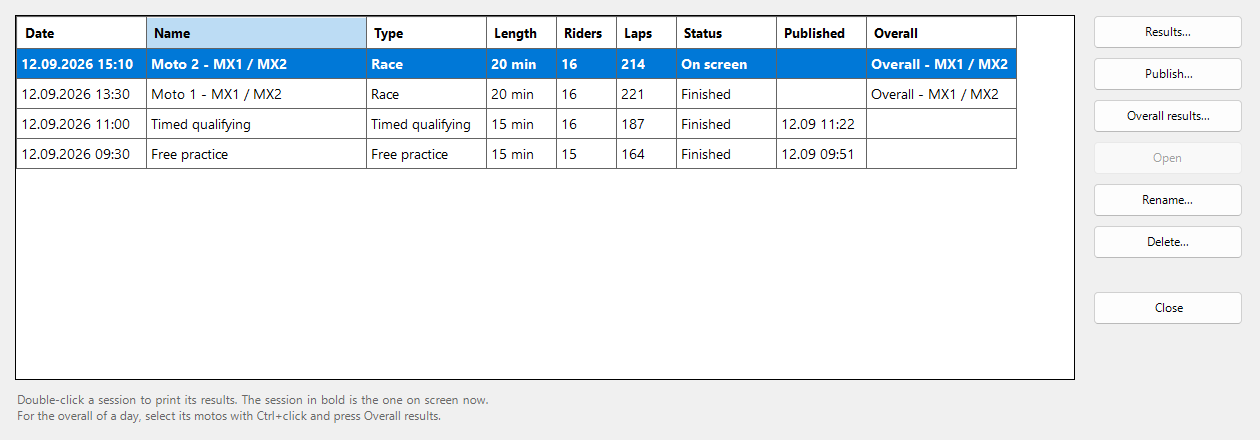
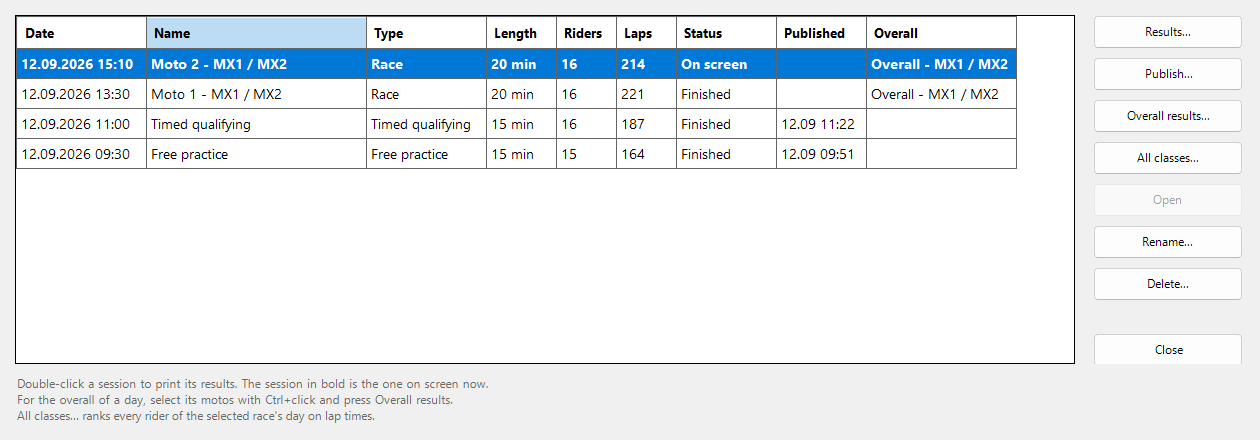
Help for the Master of all classes, with its picture
A new topic, Master of all classes, says what it compares and why lap
times, how both measures are worked out, what is highlighted, and where
it is printed, published and kept by itself. Planning the day, the
spectator screen and Past sessions mention it; the past-sessions picture
shows the new All classes... button, and master-all-classes is made from
the race demo's fictional riders in MX1 and MX2 races of their own.

The window's columns now fit without scrolling, and a gap reads as
seconds - +1.800 - the way a lap time difference is said.

diff --git a/HelpTopics.cs b/HelpTopics.cs
@@ -28,7 +28,7 @@ public static class HelpTopics
     QuickStart(), DayPlan(), Presets(), Demo(), Screens(),
     Race(), Qualifying(), Practice(), Waves(), Teams(),
     RaceDay(), Fixing(), Unknown(), TransponderCheck(), Track(),
-    Results(), Overall(), Publish(), PastSessions(),
+    Results(), Overall(), AllClasses(), Publish(), PastSessions(),
     RiderLists(), Reader(), Settings(), Shortcuts(), Troubleshooting()
   };
 
@@ -172,6 +172,9 @@ public static class HelpTopics
         "numbered in the order they ran - the results sheet and one per class, as Excel and as PDF. Saved again " +
         "after a correction; a file open in Excel is left alone and the new one saved beside it.",
         "Live timing: switched on when a session's clock starts. It switches itself off at the finish, as always."),
+      Para("A fourth switch, off in a new plan: Keep the Master of all classes. It ranks every rider of every " +
+           "race of the day on lap times, saves the list with the day's sheets and publishes it after the races, " +
+           "again after each one. See Master of all classes."),
       Para("The same switches exist for sessions set up by hand: Race > After each session.... They are off " +
            "until you turn them on."),
       Para("With publishing on, the day's programme goes to the websites as well, and again whenever a session " +
@@ -670,9 +673,12 @@ public static class HelpTopics
         "chequered flag marks riders who have finished.",
         "Before the start it lists who is entered.",
         "With a day plan, before the start and after the finish the bottom line says what is next on track and when.",
-        "It shows full names - it is a screen at the track, not the website."),
+        "It shows full names - it is a screen at the track, not the website.",
+        "With Master of all classes between sessions ticked (right-click), before a start and after a finish it " +
+        "takes turns, every 20 seconds, with the day's list of every class on lap times."),
       Keys(
-        ("Right-click", "The menu: Top 10, Top 20, All riders, full screen, next screen, close"),
+        ("Right-click", "The menu: Top 10, Top 20, All riders, Master of all classes between sessions, full " +
+                        "screen, next screen, close"),
         ("1 / 2 / A", "Top 10 / Top 20 / all riders - with all, the rows shrink to fit, in two columns on a wide screen"),
         ("F11 or double-click", "Full screen on and off; Esc leaves full screen"),
         ("Ctrl+Right", "Move it to the next screen")),
@@ -986,6 +992,52 @@ public static class HelpTopics
     },
     HelpTopicIds.Results, HelpTopicIds.PastSessions, HelpTopicIds.Publish, HelpTopicIds.Race);
 
+  private static HelpTopic AllClasses() => Topic(HelpTopicIds.AllClasses, AfterASession,
+    "Master of all classes",
+    "Every rider of every race of the day in one list, all classes together, ranked on lap times - so a fast " +
+    "rider of a lower class can see they were quicker than half the class above.",
+    new[]
+    {
+      Picture("master-all-classes", "The Master of all classes: every rider of the day's races, ranked on best lap."),
+      Para("Each class rides its own races, and they are not the same length, so laps and total time say nothing " +
+           "between classes. A lap is the same circuit for everyone, so the list compares lap times. It changes " +
+           "nobody's class result."),
+
+      Heading("Opening it"),
+      Keys(
+        ("Race > Master of all classes...", "today's list, or the last day races were run"),
+        ("Race > Past sessions...", "select any race of the day and press All classes...")),
+
+      Heading("How it is ranked"),
+      Bullets(
+        "Every finished race of the day counts, all classes. Practice and qualifying do not, and neither do " +
+        "team races - a team's laps are ridden by several people.",
+        "Rank by: Best lap is the fastest lap a rider rode in any race of the day. Average lap is the mean of " +
+        "all their laps. The window shows both columns and is sorted by the one chosen; that order is what is " +
+        "printed and published.",
+        "Lap 1 of each race is left out of both: it runs from the start, not once round the circuit. These are " +
+        "the same Best lap and Avg lap the race sheets print.",
+        "An average needs at least 3 laps. A rider with fewer still has a best lap and is listed below the " +
+        "others when sorted by average.",
+        "On equal best laps, whoever set it first is ahead. On equal averages, the better best lap.",
+        "Best lap in says which race and which lap the best lap was."),
+      Para("A rider is followed from race to race by their transponder, also when they rode in two classes. A " +
+           "row is highlighted when something should be checked: a best lap far quicker than any other lap the " +
+           "rider rode (a cut, or someone else's read), one number on two riders of a class, or one transponder " +
+           "ridden by two riders of different classes."),
+
+      Heading("Printing, publishing, keeping it by itself"),
+      Bullets(
+        "Results... previews, prints or exports it. The Excel file has a worksheet in each order.",
+        "Publish... puts it on the results website, where riders can switch between best and average lap and " +
+        "narrow it to their class while keeping their place among everyone. Races not published yet are offered first.",
+        "With Keep the Master of all classes in Race > After each session... (or a day plan), it is saved with " +
+        "the day's sheets and published by itself after the races, again after each one, at the same address.",
+        "The spectator screen can show it between sessions: right-click it and tick Master of all classes " +
+        "between sessions.")
+    },
+    HelpTopicIds.Overall, HelpTopicIds.Results, HelpTopicIds.PastSessions, HelpTopicIds.Publish);
+
   private static HelpTopic Publish() => Topic(HelpTopicIds.Publish, AfterASession,
     "Putting results on the website",
     "One button sends a finished session to your club's results website, where riders can look themselves " +
@@ -1108,6 +1160,8 @@ public static class HelpTopics
         "Publish... - puts it on the club's results website. Only shown once a website has been set up.",
         "Overall results... - adds up two or more motos into the result of the day. Select the motos with " +
         "Ctrl+click first; for motos that already count together, one of them is enough. See Overall results.",
+        "All classes... - every rider of every race of the selected race's day in one list, ranked on lap " +
+        "times. See Master of all classes.",
         "Open - makes it the session on screen, to look at its laps or correct them. Not while another session is running. " +
         "With a day plan, the plan waits while it is on screen; Set up now goes back to the plan.",
         "Rename... - changes the name printed on its sheet.",

diff --git a/CrossMgrInterface.Tests/HelpScreenshots/HelpScreenshotScenes.cs b/CrossMgrInterface.Tests/HelpScreenshots/HelpScreenshotScenes.cs
@@ -17,7 +17,8 @@ internal static class HelpScreenshotScenes
   {
     "race-day", "new-race-wizard", "fix-laps", "unknown-transponder",
     "track-map", "circuit-editor", "past-sessions", "reader-settings", "demo-picker",
-    "publish-results", "rider-list", "spectator-screen", "overall-results", "day-plan", "new-plan"
+    "publish-results", "rider-list", "spectator-screen", "overall-results", "day-plan", "new-plan",
+    "master-all-classes"
   };
 
   public static HelpScene Build(string name) => name switch
@@ -37,6 +38,7 @@ internal static class HelpScreenshotScenes
     "overall-results" => OverallResults(),
     "day-plan" => DayPlanScene(),
     "new-plan" => NewPlanScene(),
+    "master-all-classes" => AllClasses(),
     _ => throw new ArgumentException($"There is no help screenshot scene called {name}.", nameof(name))
   };
 
@@ -441,6 +443,45 @@ internal static class HelpScreenshotScenes
     {
       Form = new OverallResultsDialog(new SampleOverall(result), overall) { ClientSize = new Size(900, 560) }
     };
+  }
+
+  /// <summary>
+  /// A day of the race demo's riders with each class in its races of its own -
+  /// MX1 for 20 minutes, MX2 for 15 - so the list shows the two classes in among
+  /// each other, which is the point of it.
+  /// </summary>
+  private static HelpScene AllClasses()
+  {
+    var start = new DateTime(2026, 9, 12, 13, 30, 0);
+    var races = new List<OverallMoto>();
+    foreach (var moto in new[] { 1, 2 })
+      foreach (var cls in new[] { "MX1", "MX2" })
+      {
+        var minutes = cls == "MX1" ? 20 : 15;
+        var rules = new RaceRules { SessionType = SessionType.Race, Duration = TimeSpan.FromMinutes(minutes), AdditionalLaps = 1 };
+        var at = start.AddMinutes(races.Count * 30);
+        races.Add(new OverallMoto($"Moto {moto} - {cls}",
+          MotoField(moto).Where(r => r.Category == cls).ToDictionary(r => r.TagID, r => r), rules, at, at.AddMinutes(23)));
+      }
+
+    var result = DayRankingScorer.Score(Form1.DayRankingDefaultName, races, DayRankingMeasure.BestLap);
+    var ranking = new DbDayRanking { Id = 1, Day = start.Date, Name = Form1.DayRankingDefaultName };
+    return new HelpScene
+    {
+      Form = new DayRankingDialog(new SampleDayRanking(result), ranking) { ClientSize = new Size(1040, 560) }
+    };
+  }
+
+  private sealed class SampleDayRanking : IDayRankingHost
+  {
+    private readonly DayRankingResult _result;
+    public SampleDayRanking(DayRankingResult result) => _result = result;
+
+    public DayRankingResult Score(DbDayRanking ranking) => _result;
+    public void Save(DbDayRanking ranking) { }
+    public void PrintResults(IWin32Window owner, DbDayRanking ranking, DayRankingResult result) { }
+    public bool PublishingAvailable => true;
+    public void Publish(IWin32Window owner, DbDayRanking ranking) { }
   }
 
   private sealed class SampleOverall : IOverallResultsHost

diff --git a/DayRankingReportGenerator.cs b/DayRankingReportGenerator.cs
@@ -112,11 +112,14 @@ public sealed class DayRankingReportGenerator : IDisposable
       BestLapIn(result, entry),
       entry.AverageLap.HasValue ? TimeFormat.Precise(entry.AverageLap.Value) : "",
       entry.TimedLaps.ToString(),
-      placed && leader.HasValue && time.HasValue && time.Value > leader.Value
-        ? "+" + TimeFormat.Precise(time.Value - leader.Value)
-        : ""
+      placed && leader.HasValue && time.HasValue && time.Value > leader.Value ? Gap(time.Value - leader.Value) : ""
     };
   }
+
+  /// <summary>"+1.799" - seconds, as a lap time's difference is read out; minutes only past one.</summary>
+  public static string Gap(TimeSpan gap) => gap < TimeSpan.FromMinutes(1)
+    ? "+" + gap.TotalSeconds.ToString("0.000", System.Globalization.CultureInfo.InvariantCulture)
+    : "+" + TimeFormat.Precise(gap);
 
   /// <summary>The time every gap on the list is measured from.</summary>
   public static TimeSpan? Leader(DayRankingResult result, DayRankingMeasure measure) =>

diff --git a/DayRankingDialog.cs b/DayRankingDialog.cs
@@ -50,7 +50,7 @@ public sealed class DayRankingDialog : Form
     MinimizeBox = false;
     MaximizeBox = true;
     ShowInTaskbar = false;
-    ClientSize = new Size(1000, 640);
+    ClientSize = new Size(1040, 640);
     MinimumSize = new Size(780, 440);
     Font = new Font("Segoe UI", 9F);
 
@@ -208,7 +208,7 @@ public sealed class DayRankingDialog : Form
     {
       var column = _grid.Columns[_grid.Columns.Add($"c{i}", headers[i])];
       column.SortMode = DataGridViewColumnSortMode.NotSortable;
-      column.Width = i switch { 0 => 48, 1 => 52, 2 => 200, 3 => 100, 5 => 190, 7 => 52, _ => 86 };
+      column.Width = i switch { 0 => 44, 1 => 44, 2 => 180, 3 => 70, 5 => 150, 7 => 46, 8 => 64, _ => 84 };
       if (i is 0 or 1 or 4 or 6 or 7 or 8) column.DefaultCellStyle.Alignment = DataGridViewContentAlignment.MiddleRight;
     }
 

diff --git a/HelpTopic.cs b/HelpTopic.cs
@@ -71,6 +71,7 @@ public static class HelpTopicIds
   public const string Results = "results";
   public const string PastSessions = "past-sessions";
   public const string Overall = "overall";
+  public const string AllClasses = "all-classes";
   public const string Publish = "publish";
 
   public const string RiderLists = "rider-lists";

diff --git a/CLAUDE.md b/CLAUDE.md
@@ -53,6 +53,7 @@ Then:
 | `overall-results` | Overall results of two motos, per class | `OverallResultsDialog.cs`, `OverallScorer.cs`, `OverallReportGenerator.cs` | overall |
 | `day-plan` | Plan the day window with a club day planned | `PlanDialog.cs`, `DayPlan.cs` | day-plan |
 | `new-plan` | New day plan window on the MX club day preset | `NewPlanDialog.cs`, `PresetCatalog.cs` | presets |
+| `master-all-classes` | Master of all classes over a day of MX1 and MX2 races | `DayRankingDialog.cs`, `DayRankingScorer.cs`, `DayRankingReportGenerator.cs` | all-classes |
 
 Also:
 
